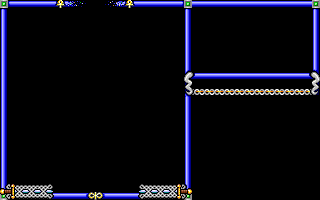
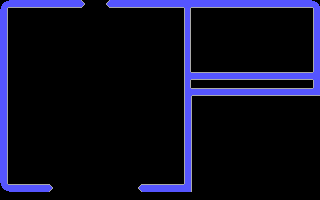
Added 'new' tileset. Which borrows off of hires, corrects some tiles and adds some new ones..
In code: consolidated calls to wait functions etc. Improved timings and animation.

Changed region(s): [[0.0, 0.0, 1.0, 1.0]]

diff --git a/src/combat.cpp b/src/combat.cpp
@@ -433,6 +433,7 @@ void CombatController::moveCreatures() {
         m = map->getCreatures().at(i);
         //GameController::doScreenAnimationsWhilePausing(1);
         m->act(this);
+
         if (i < map->getCreatures().size() && map->getCreatures().at(i) != m) {
             // don't skip a later creature when an earlier one flees
             i--;
@@ -668,15 +669,7 @@ bool CombatController::returnWeaponToOwner(const Coords &coords, int distance, i
     for (int i = distance; i > 1; i--) {
         new_coords.move(returnDir, map);        
         
-        map->annotations->add(new_coords, misstile, true);
-        gameUpdateScreen();
-
-        /* Based on attack speed setting in setting struct, make a delay for
-           the attack annotation */
-        //if (attackdelay > 0)
-        //    EventHandler::wait_msecs(attackdelay * 2);
-        
-        map->annotations->remove(new_coords, misstile);
+        GameController::flashTile(new_coords, misstile, 1);
     }
     gameUpdateScreen();
 

diff --git a/src/screen.cpp b/src/screen.cpp
@@ -398,7 +398,7 @@ vector<MapTile> screenViewportTile(unsigned int width, unsigned int height, int 
     return c->location->tilesAt(tc, focus);
 }
 
-void screenTileUpdate(TileView *view, const Coords &coords, bool redraw)
+bool screenTileUpdate(TileView *view, const Coords &coords, bool redraw)
 {
 	bool focus;
 	MapCoords mc(coords);
@@ -415,13 +415,17 @@ void screenTileUpdate(TileView *view, const Coords &coords, bool redraw)
 		y = y - c->location->coords.y + VIEWPORT_H / 2;
 	}
 
-	if (x >= 0 && y >= 0 && x < VIEWPORT_W && y < VIEWPORT_H)
+	if (x >= 0 && y >= 0 && x < VIEWPORT_W && y < VIEWPORT_H && screenLos[x][y])
 	{
 		view->drawTile(tiles, focus, x, y);
 
 		if (redraw)
+		{
 			screenRedrawMapArea();
+			return true;
+		}
 	}
+	return false;
 }
 
 /**

diff --git a/src/map.cpp b/src/map.cpp
@@ -534,8 +534,11 @@ Creature *Map::moveObjects(MapCoords avatar) {
             if (!m->specialAction())
             {
                 if	(moveObject(this, m, avatar))
-                /* After moving, Enact any special effects of the creature (such as storms eating objects, whirlpools teleporting, etc.) */
+                {
+                	m->animateMovement();
+                	/* After moving, Enact any special effects of the creature (such as storms eating objects, whirlpools teleporting, etc.) */
                 	m->specialEffect();
+                }
             }
         }
     }

diff --git a/src/movement.cpp b/src/movement.cpp
@@ -244,8 +244,9 @@ int moveObject(Map *map, Creature *obj, MapCoords avatar) {
      */ 
     if (!(new_coords == obj->getCoords()) && 
         !MAP_IS_OOB(map, new_coords))
-        obj->setCoords(new_coords);    
-
+    {
+    	obj->setCoords(new_coords);
+    }
     return 1;
 }
 
@@ -308,8 +309,7 @@ int moveCombatObject(int act, Map *map, Creature *obj, MapCoords target) {
     /* if the object wan't slowed... */
     if (!slowed) {        
         // Set the new coordinates
-        obj->setCoords(new_coords);
-
+    	obj->setCoords(new_coords);
         return 1;
     }
 

diff --git a/src/screen.h b/src/screen.h
@@ -109,7 +109,7 @@ void screenShowChar(int chr, int x, int y);
 void screenShowCharMasked(int chr, int x, int y, unsigned char mask);
 void screenTextAt(int x, int y, const char *fmt, ...) PRINTF_LIKE(3, 4);
 void screenTextColor(int color);
-void screenTileUpdate(TileView *view, const Coords &coords, bool redraw = true);
+bool screenTileUpdate(TileView *view, const Coords &coords, bool redraw = true); //Returns true if the screen was affected
 void screenUpdate(TileView *view, bool showmap, bool blackout);
 void screenUpdateCursor(void);
 void screenUpdateMoons(void);

diff --git a/src/player.cpp b/src/player.cpp
@@ -440,7 +440,7 @@ bool PartyMember::applyDamage(int damage, bool) {
     if (isCombatMap(c->location->map) && getStatus() == STAT_DEAD) {
         Coords p = getCoords();                    
         Map *map = getMap();
-        map->annotations->add(p, Tileset::findTileByName("corpse")->id)->setTTL(party->size());
+        map->annotations->add(p, Tileset::findTileByName("corpse")->id)->setTTL(party->size() * 2);
 
         if (party) {
             party->setChanged();

diff --git a/src/object.cpp b/src/object.cpp
@@ -35,3 +35,14 @@ void Object::remove() {
         else maps[i]->removeObject(this, false);
     }
 }
+
+
+#include "screen.h"
+#include "game.h"
+void Object::animateMovement()
+{
+	//TODO abstract movement - also make screen.h and game.h not required
+    screenTileUpdate(&game->mapArea, prevCoords, false);
+    if (screenTileUpdate(&game->mapArea, coords, true))
+    	EventHandler::wait_msecs(11);
+}

diff --git a/src/location.cpp b/src/location.cpp
@@ -153,7 +153,7 @@ std::vector<MapTile> Location::tilesAt(MapCoords coords, bool &focus) {
 TileId Location::getReplacementTile(MapCoords atCoords, const Tile * forTile) {
     std::map<TileId, int> validMapTileCount;
 
-    int dirs[][2] = {{-1,0},{0,-1},{0,1},{1,0}};
+    int dirs[][2] = {{-1,0},{1,0},{0,-1},{0,1}};
     int dirs_per_step = 4; //
 
     std::set<MapCoords> searched;

diff --git a/src/game.cpp b/src/game.cpp
@@ -625,6 +625,8 @@ void GameController::finishTurn() {
         /* update party stats */
         c->stats->setView(STATS_PARTY_OVERVIEW);
 
+        screenUpdate(&this->mapArea, true, false);
+
         /* Creatures cannot spawn, move or attack while the avatar is on the balloon */        
         if (!c->party->isFlying()) {
 

diff --git a/src/object.h b/src/object.h
@@ -66,7 +66,9 @@ public:
     void remove();  /**< Removes itself from any maps that it is a part of */
 
     bool setDirection(Direction d);
-        
+
+    void animateMovement();
+
     // Properties
 protected:
     MapTile tile, prevTile;

diff --git a/src/creature.cpp b/src/creature.cpp
@@ -691,7 +691,7 @@ void Creature::act(CombatController *controller) {
         break;
     }
     }
-    EventHandler::sleep(settings.pauseForEachMovement);
+    this->animateMovement();
 }
 
 /**
